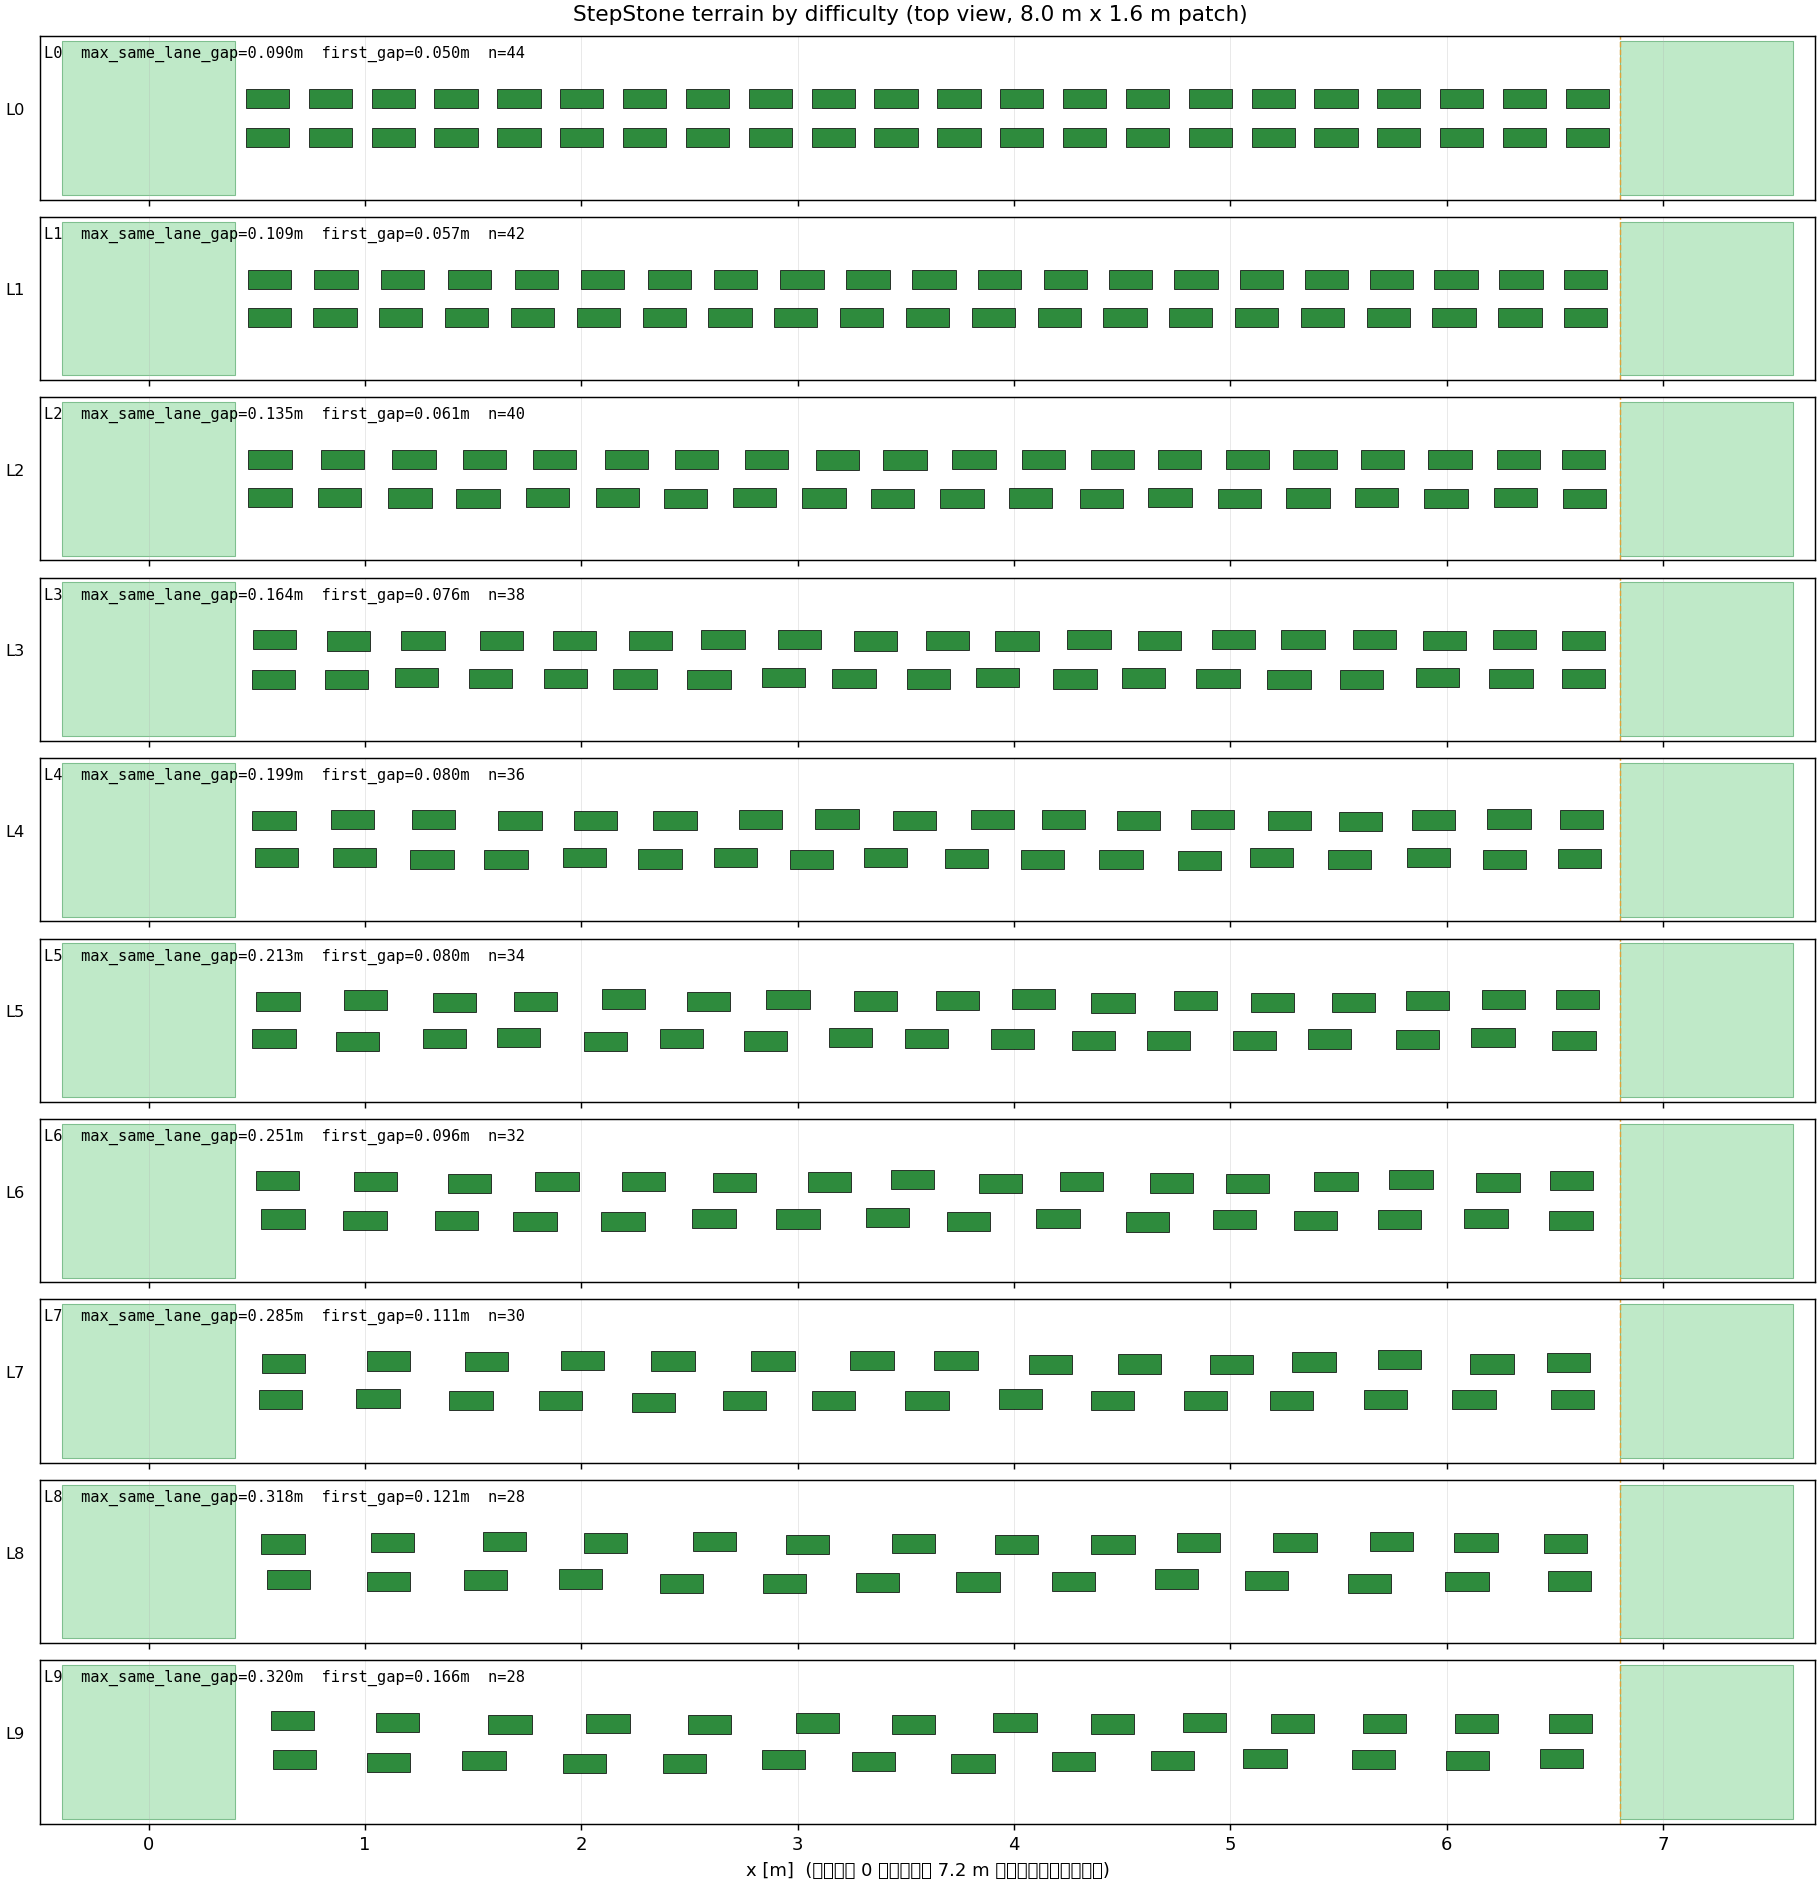
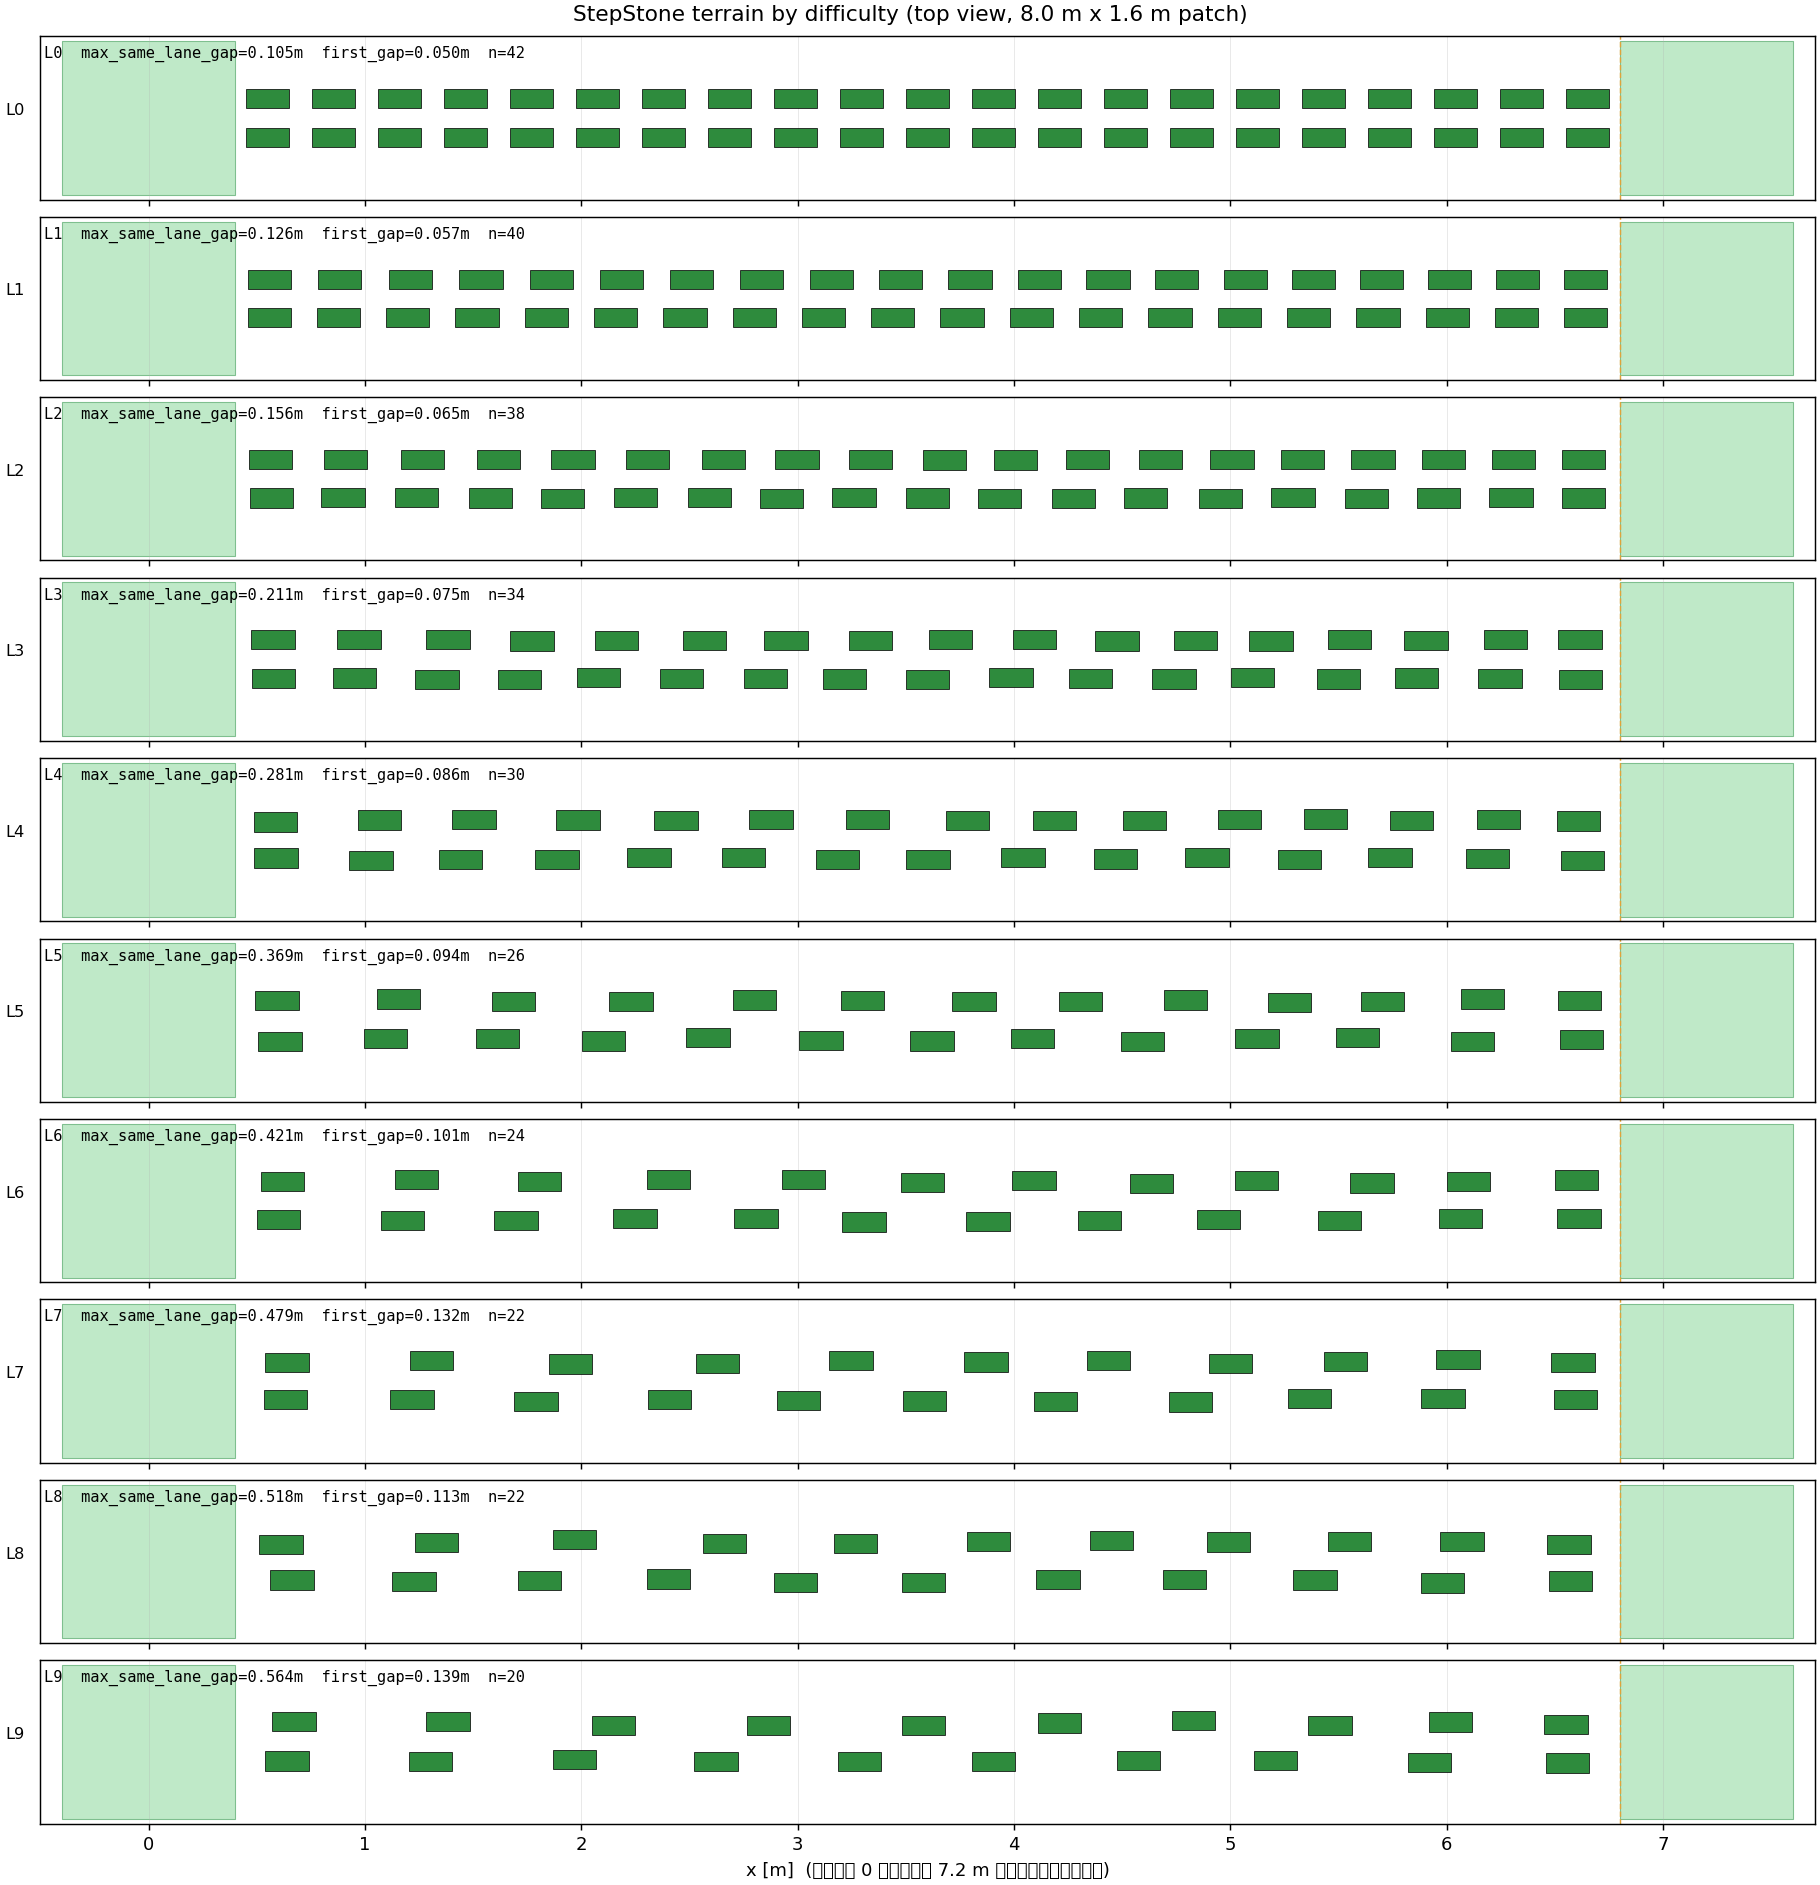
fix(terrain): 恢复实场间距（0.60/0.30），并给中心距/错位加缩放参数
用户反馈：上一版把最高难度收紧到 0.45/0.18 后，同侧净空只剩 0.32 m，
策略直接“平推”过去、学不到踩桩。

- _PITCH 恢复为 0.30..0.60，_STAGGER 恢复为 0..0.30（实场规格）；
- 新增 BoxSteppingStonesTerrainCfg.pitch_scale / stagger_scale，
  命令行可直接缩放，不必改代码：
  --env.scene.terrain.terrain-generator.sub-terrains.box_stepping_stones.pitch-scale 0.85
- 重新生成 docs/images/terrain_levels.png：同侧净空逐级
  0.105 / 0.126 / 0.156 / 0.211 / 0.281 / 0.369 / 0.421 / 0.479 / 0.518 / 0.564 m

验证：coverage 检查（42 根）与四任务冒烟通过。

diff --git a/src/robot/terrains/stepping_stones.py b/src/robot/terrains/stepping_stones.py
@@ -1,4 +1,4 @@
-"""梅花桩（stepping-stone）地形，对应 Robocon2027.xml 里的 stepping_stones 段。
+"""梅花桩（stepping-stone）地形，对应 Robocon2027.xml 里的 stepping_stones 段。
 
 实场地形（`Robocon2027.xml`）：
 
@@ -44,8 +44,11 @@ _HEIGHT_HIGH = np.array([0.05, 0.07, 0.10, 0.15, 0.18, 0.20])
 # 2026-10-28：最高档中心距从 0.60 收到 0.45（200 mm 桩 -> 净空 0.25 m）。
 # 0.60 时同侧净空 0.40 m，已经超过机器人轴距（0.385 m），只能靠斜跨；
 # 训练 300 迭代仍过不去，所以先把上限压到“轮子能直接跨”的范围。
-_PITCH = np.array([0.28, 0.30, 0.32, 0.36, 0.40, 0.45])
-_STAGGER = np.array([0.00, 0.04, 0.08, 0.12, 0.15, 0.18])
+# 2026-10-28：恢复实场规格（中心距 0.60 / 错位 0.30）。上一版收到 0.45/0.18 后
+# 同侧净空只剩 0.32 m，策略直接“平推”过去，学不到踩桩；需要更软时用
+# BoxSteppingStonesTerrainCfg.pitch_scale / stagger_scale 缩放，不要改这张表。
+_PITCH = np.array([0.30, 0.32, 0.35, 0.45, 0.55, 0.60])
+_STAGGER = np.array([0.00, 0.05, 0.10, 0.20, 0.26, 0.30])
 _NOISE = np.array([0.00, 0.00, 0.01, 0.02, 0.025, 0.030])
 #: 平台与首/末排桩之间的净空（边到边）。赛事里平台与方块都是 200 mm、顶面齐平，
 #: 真正要跨越的是这个 gap；它必须显式控制，否则随 pitch 变化会被拉到 20 cm 以上，
@@ -107,6 +110,17 @@ class BoxSteppingStonesTerrainCfg(SubTerrainCfg):
 
     edge_gap_range: tuple[float, float] = (0.05, 0.15)
     """平台与首/末排桩的净空范围，仅用于文档/校验（实际曲线见 _GAP）。"""
+
+    pitch_scale: float = 1.0
+    """中心距整体缩放（1.0 = 实场规格 0.60 m；0.75 约等于净空 0.25 m）。
+
+    间距太小（净空 < 0.25 m）策略会“平推”过去，学不到踩桩；太大（> 0.35 m）
+    又会被轴距卡住。命令行可以直接调：
+    ``--env.scene.terrain.terrain-generator.sub-terrains.box_stepping_stones.pitch-scale 0.8``
+    """
+
+    stagger_scale: float = 1.0
+    """两列错位整体缩放（1.0 = 实场 0.30 m）。错位越小越容易“直着走平推开”。"""
 
     #: 每次生成递增，用于给桩体 geom 起唯一名字（``stepstone_<n>``）。
     #: 名字是运行时恢复"哪根桩被踩过"的唯一依据，见 mdp/stone_coverage.py。
@@ -198,8 +212,8 @@ class BoxSteppingStonesTerrainCfg(SubTerrainCfg):
 
         # 4) 两条桩列：首/末排固定在离平台 gap 处，中间按 pitch 等分。
         # 这样“最后一排桩到平台”的净空由 gap 控制（5–15 cm），不会随 pitch 变成 20 cm+。
-        pitch = p["pitch"]
-        stagger = p["stagger"]
+        pitch = p["pitch"] * float(self.pitch_scale)
+        stagger = p["stagger"] * float(self.stagger_scale)
         noise = p["noise"]
         p_missing = p["missing"]
         gap = p["gap"]
